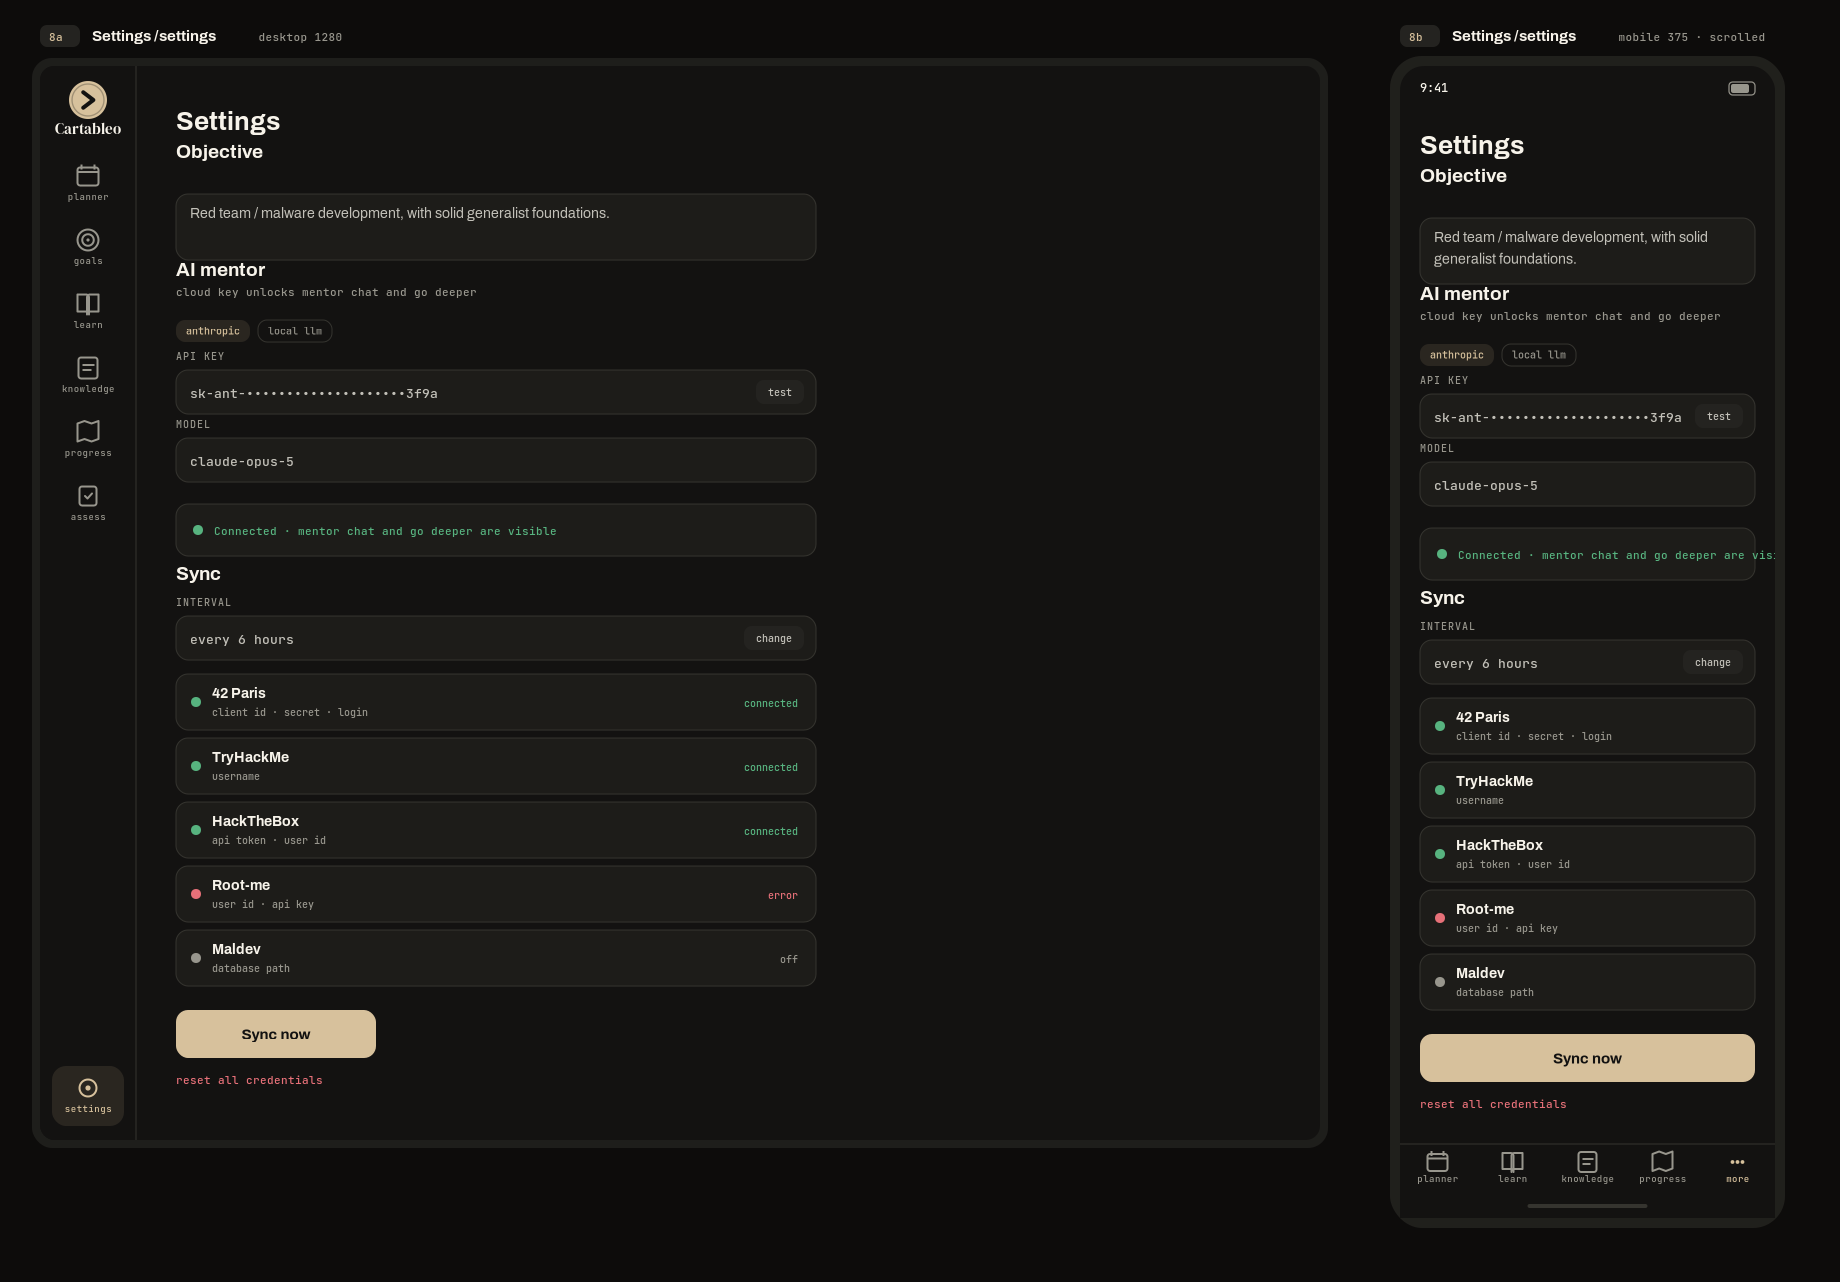
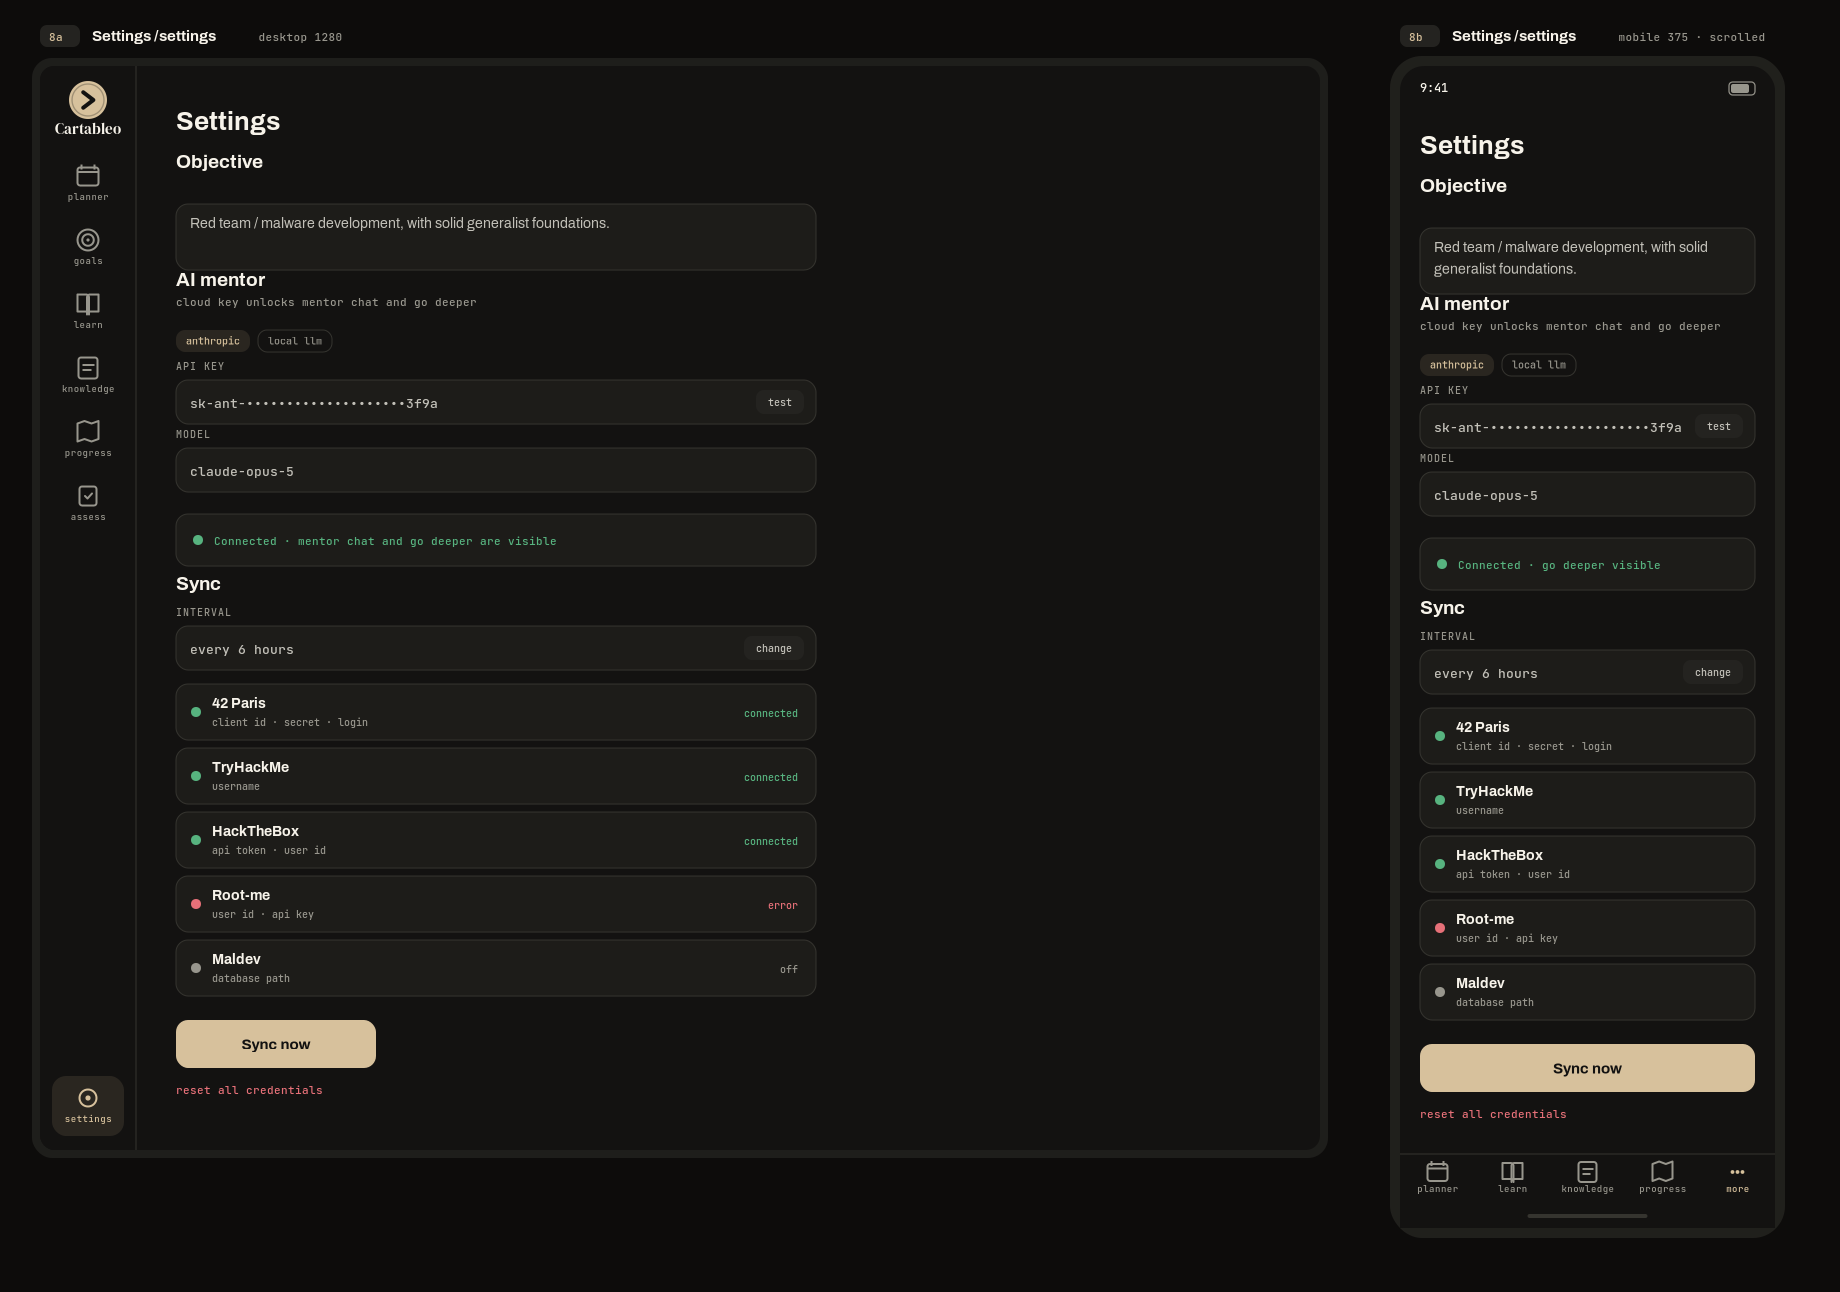
Fix cramped section header and overflowing status line in the settings mockup

diff --git a/docs/mockups/p08_settings.py b/docs/mockups/p08_settings.py
@@ -36,7 +36,7 @@ def section(c, x, y, w, title, note=None):
 def content(c, x, y, w, compact=False):
     t = c.t
     c.text(x, y + 24, "Settings", SANS, 26, t["text"], bold=True)
-    y += 52
+    y += 62
 
     y += section(c, x, y, w, "Objective")
     c.rect(x, y + 10, w, 66, t["card"], r=12, stroke=t["line"])
@@ -53,10 +53,11 @@ def content(c, x, y, w, compact=False):
     y += field(c, x, y, w, "api key", "sk-ant-••••••••••••••••••••3f9a", action="test")
     y += field(c, x, y, w, "model", "claude-opus-5")
     y += 8
+    msg = ("Connected · go deeper visible" if compact
+           else "Connected · mentor chat and go deeper are visible")
     c.card(x, y, w, 52, r=12)
     c.circle(x + 22, y + 26, 5, t["success"])
-    c.text(x + 38, y + 31, "Connected · mentor chat and go deeper are visible",
-           MONO, 11, t["success"])
+    c.text(x + 38, y + 31, msg, MONO, 11, t["success"])
     y += 76
 
     y += section(c, x, y, w, "Sync")
